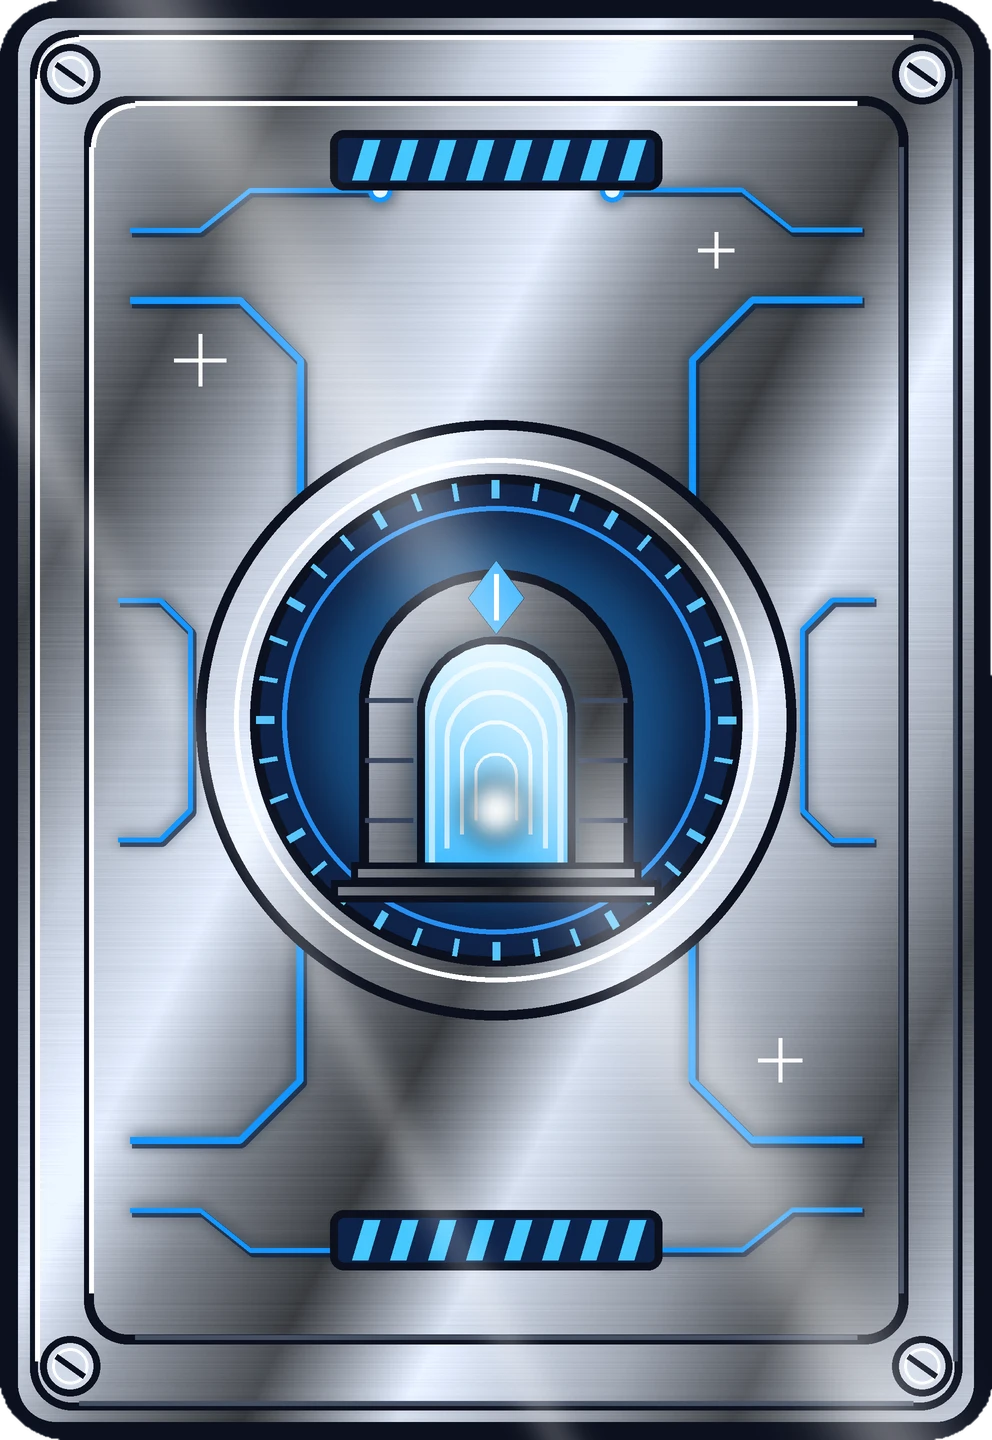
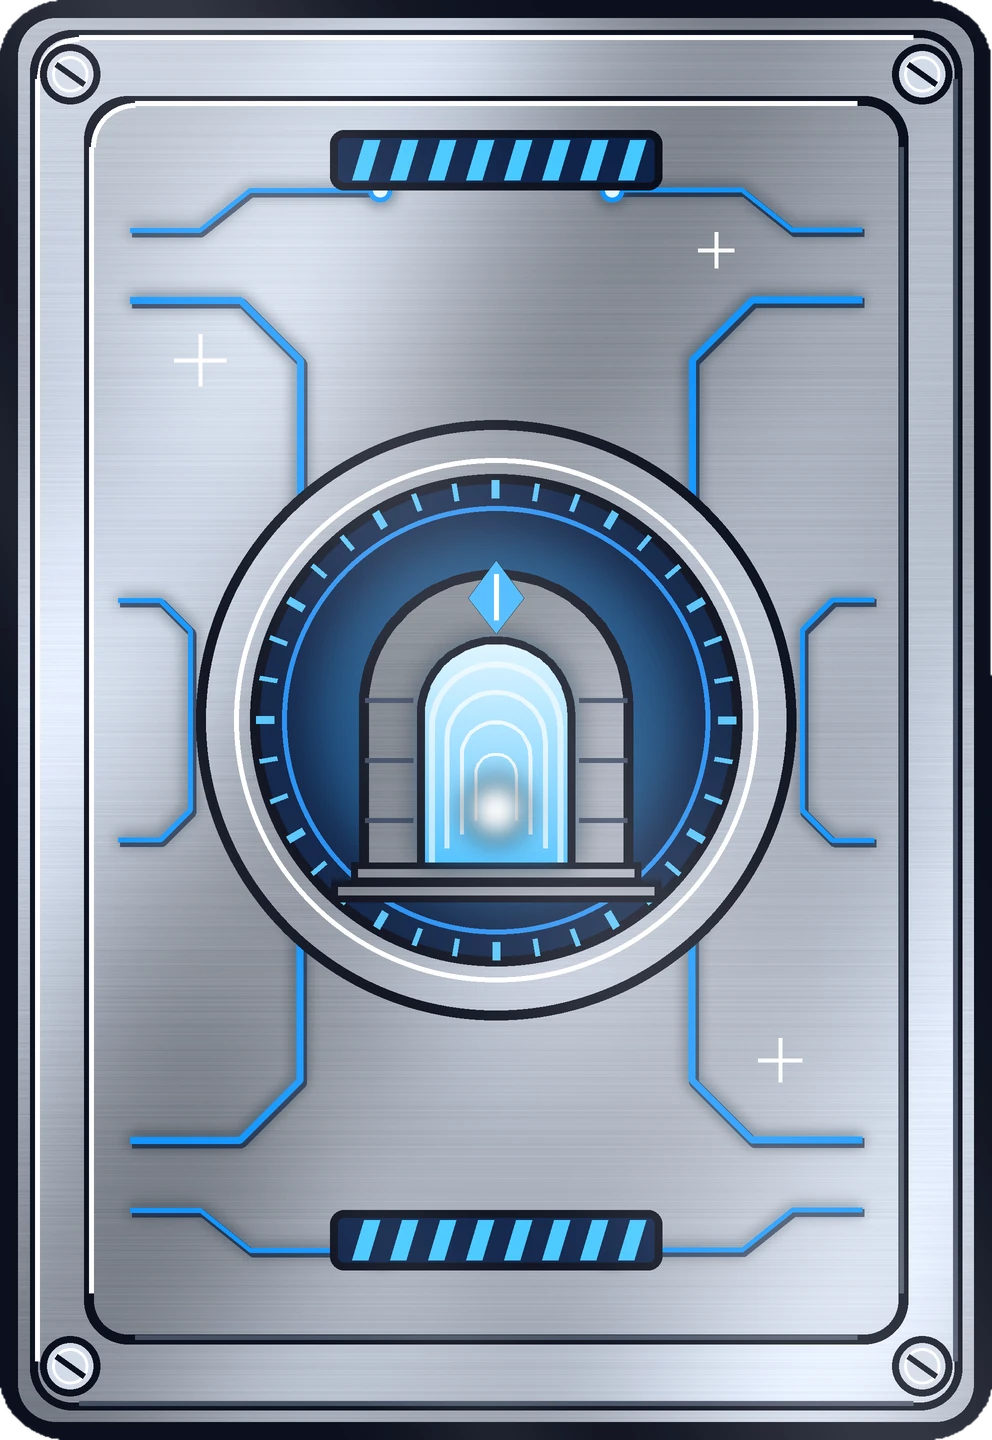
MetalBug: softer satin chrome on the card back
Claude-Session: https://claude.ai/code/session_01F2bA6QnhMqinQqfHDPoVRY

diff --git a/MetalBug/index.html b/MetalBug/index.html
@@ -225,7 +225,7 @@ html,body{margin:0;height:100%;background:#05070d;color:var(--paper);font-family
 <div id="teacher"><div class="sheet"><button class="x" id="tx">Close ✕</button><div id="tbody"></div></div></div>
 
 <script src="ep9.js?v=2"></script>
-<script src="dash.js?v=10"></script>
+<script src="dash.js?v=11"></script>
 <script>
 'use strict';
 /* =========================================================
@@ -1204,7 +1204,7 @@ function cardEl(c,{idle=false,tilt=true,max=16,spin=false}={}){
   const w=el('div','tcard'+(idle?' idle':''));w.style.setProperty('--m',`url(${CARD[c]})`);
   const inn=el('div','in'),im=el('img');im.src=CARD[c];im.alt=c;im.draggable=false;
   const sh=el('div','sh'),gl=el('div','gl');[sh,gl].forEach(x=>{x.style.webkitMaskImage=x.style.maskImage=`url(${CARD[c]})`;});
-  const fr=el('div','fr');fr.append(im,sh,gl);const bk=el('div','bk'),bi=el('img');bi.src='assets/card-back.webp?v=3';bi.alt='';bi.draggable=false;bk.append(bi);inn.append(fr,bk);w.append(inn);
+  const fr=el('div','fr');fr.append(im,sh,gl);const bk=el('div','bk'),bi=el('img');bi.src='assets/card-back.webp?v=4';bi.alt='';bi.draggable=false;bk.append(bi);inn.append(fr,bk);w.append(inn);
   if(spin){w.classList.add('spin');let ry=0,rx=0,px=null,vx=0,lt=0;
     const put=()=>{w.style.setProperty('--ry',ry+'deg');w.style.setProperty('--rx',rx+'deg');};
     w.addEventListener('pointerdown',e=>{try{w.setPointerCapture(e.pointerId);}catch(_){}px=e.clientX;vx=0;lt=performance.now();w.classList.add('drag');});

diff --git a/MetalBug/dash.js b/MetalBug/dash.js
@@ -58,7 +58,7 @@ const gPick=a=>a[Math.floor(Math.random()*a.length)];
 #dash .kcr .ep{font:400 20px var(--hd);color:var(--yellow);letter-spacing:.05em;width:58px;flex:none;line-height:1}
 #dash .kl{display:flex;gap:8px;flex:1}
 #dash .kslot{position:relative;flex:1;aspect-ratio:992/1440;padding:0;border:2px dashed #2a3560;background:rgba(30,42,90,.35);display:flex;align-items:center;justify-content:center}
-#dash .kslot.none{background:url(assets/card-back.webp?v=3) center/100% 100% no-repeat;border:2px solid #000;opacity:.5}
+#dash .kslot.none{background:url(assets/card-back.webp?v=4) center/100% 100% no-repeat;border:2px solid #000;opacity:.5}
 #dash .kslot .q{font:400 26px var(--hd);color:#3a4676}
 #dash .kslot .kc{position:absolute;inset:0}
 #dash .kslot img{width:100%;height:100%;display:block;filter:brightness(0) opacity(.55)}
